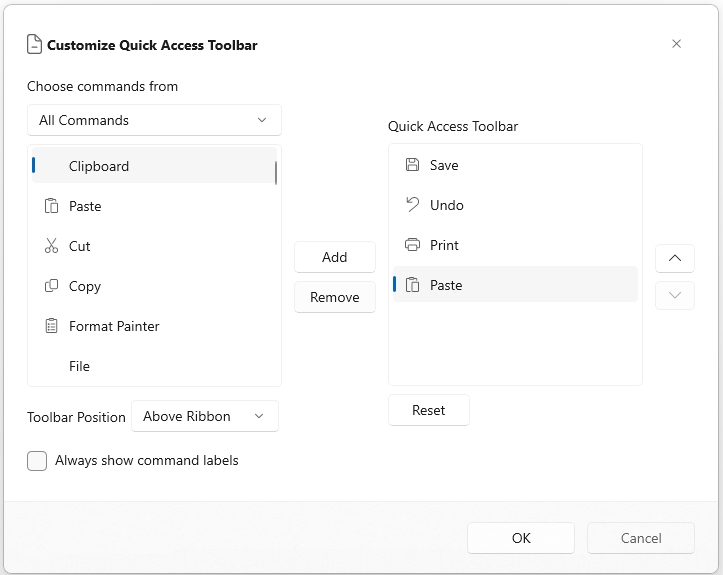
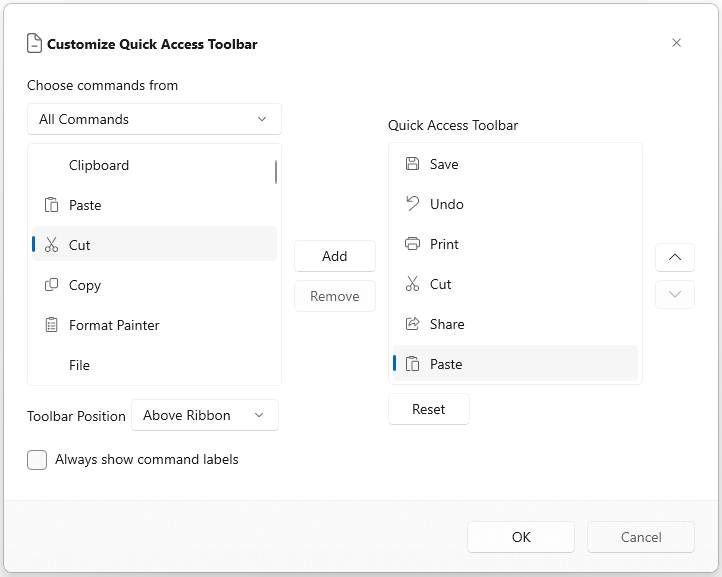
Review concerns are addressed

diff --git a/winui/Ribbon/Ribbon-QAT.md b/winui/Ribbon/Ribbon-QAT.md
@@ -35,6 +35,7 @@ Ribbon items can be added in the Quick Access Toolbar (QAT) by following below w
  * Adding items through Code.
  * Adding items using ContextMenu.
  * Adding items using QAT MenuItems.
+ * Adding items using Customize dialog window
 
  N> Currently, Ribbon Gallery and RibbonItemHost are not supported as a QAT add-in.
 
@@ -121,19 +122,21 @@ The Ribbon also supports adding items to the QAT Menu items. To add items to the
 
 ![WinUI Ribbon QAT menu items](Ribbon-QAT-images/winui-ribbon-qat-menu-items.png)
 
-## Add items to QAT customize dialog window
+## Adding items using QAT Customize dialog window
 
-To open QAT Customize Window, select `MoreCommands` option from the ContextMenu of the QAT. In the QAT Customized dialog Window, the list of Commands is available. The Commands can be filtered only from the Particular tab by using `Choose commands from` option. Then, select the Command to add to the QuickAccessToolBar and add commands to the right Pane of the Quick Access ToolBar Dialog by clicking Add Button. Finally click OK.
+To open QAT customize dialog window, select `MoreCommands` option from the ContextMenu of the QAT. This dialog window showcases all available commands within the Ribbon control.
 
-![Adding WinUI Ribbon Items to QAT Customize Window](Ribbon-QAT-images/winui-ribbon-items-in-more-commands.png)
+By using `Choose commands from` option, you can filter the command based on ribbon tabs. Then, select the desired command and click `Add` button to add the command to the right Pane of the QAT dialog window. Finally, click `OK`.
 
-![Adding WinUI Ribbon Items to QAT Customize Window](Ribbon-QAT-images/winui-ribbon-items-to-customize-window.png)
+![MoreCommands option in QAT drop-down context menu](Ribbon-QAT-images/winui-ribbon-more-commands-option.png)
 
-![Adding WinUI Ribbon Items to QuickAccessToolbar](Ribbon-QAT-images/winui-ribbon-item-to-quick-access-toolbar.png)
+![Select commands in QAT dialog window](Ribbon-QAT-images/winui-ribbon-select-command-in-qat-dialog-window.png)
+
+![Adding command to right pane of QAT dialog window](Ribbon-QAT-images/winui-ribbon-add-command-to-right-pane-in-qat-dialog-window.png)
 
 Finally, the Items gets displayed in the QAT
 
-![Added WinUI Ribbon Items in QuickAccessToolbar](Ribbon-QAT-images/winui-ribbon-items-in-quick-access-toolbar.png)
+![Add commands to WinUI Ribbon QuickAccessToolbar](Ribbon-QAT-images/winui-ribbon-add-commands-to-qat.png)
 
 N> To avoid adding duplicate items in QAT, set Content property for ribbon items.
 
@@ -145,7 +148,7 @@ To remove an items from Quick Access Toolbar (QAT), right-click the required QAT
 
 ![WinUI Ribbon QAT item removed](Ribbon-QAT-images/winui-ribbon-qat-item-removed.png)
 
-To remove the added Quick Access Toolbar (QAT) item, select the item in the right panel and select **Remove** button. 
+QAT item can also be removed by using Customize window, just select the QAT item in the right panel and select `Remove`. 
 
 ![WinUI Ribbon Items to QAT Customize Window](Ribbon-QAT-images/winui-ribbon-remove-qat-item.png)
 
